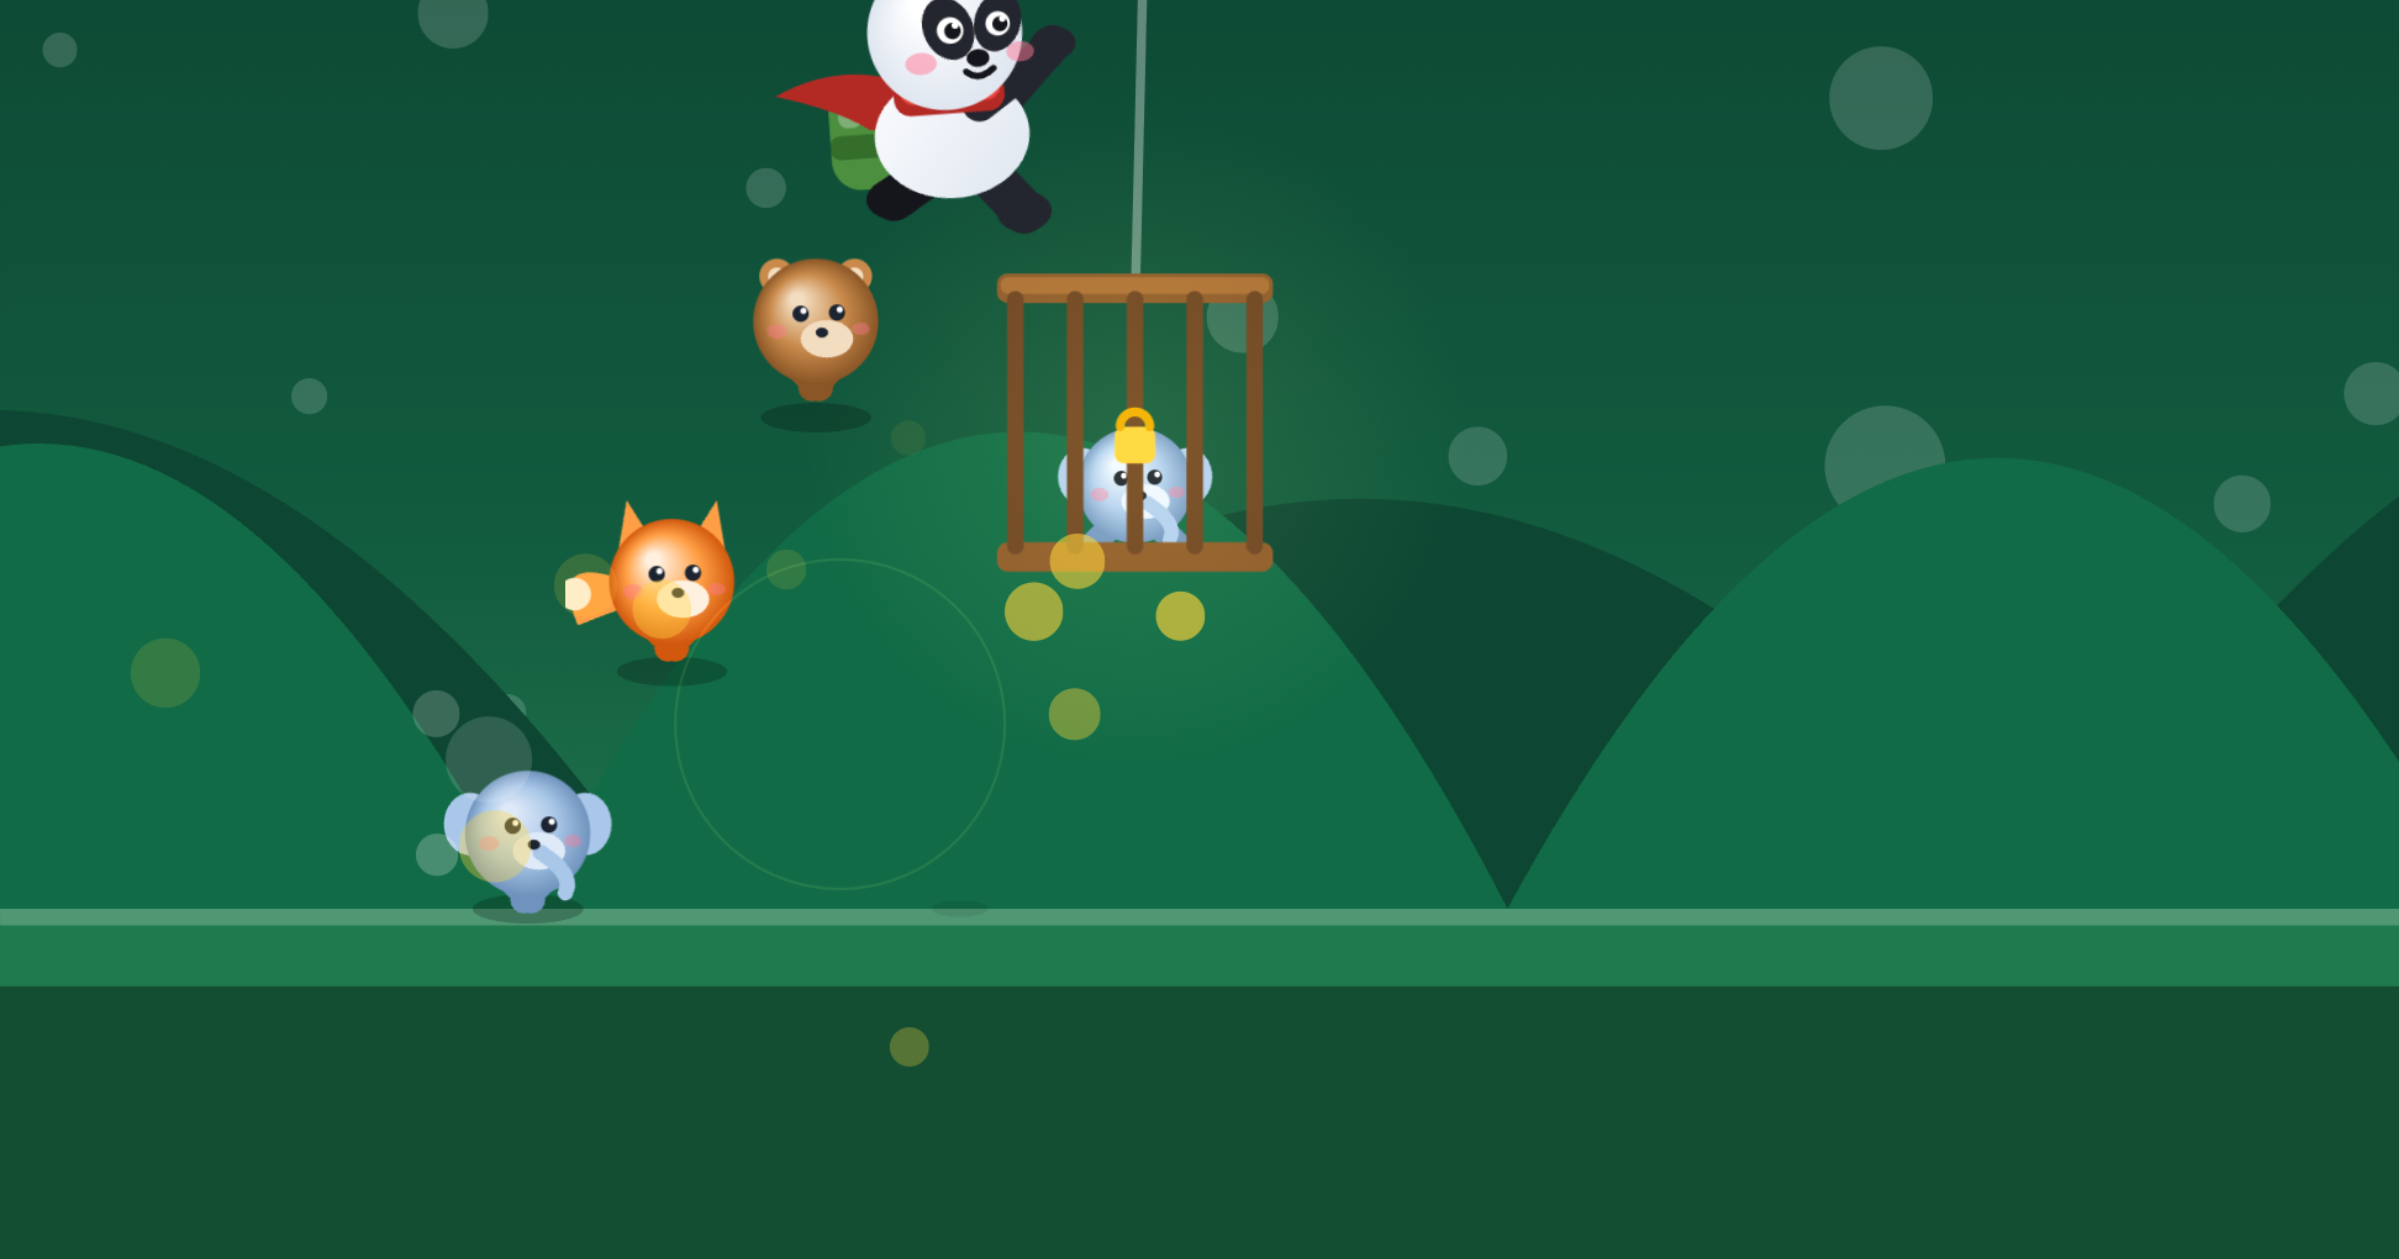
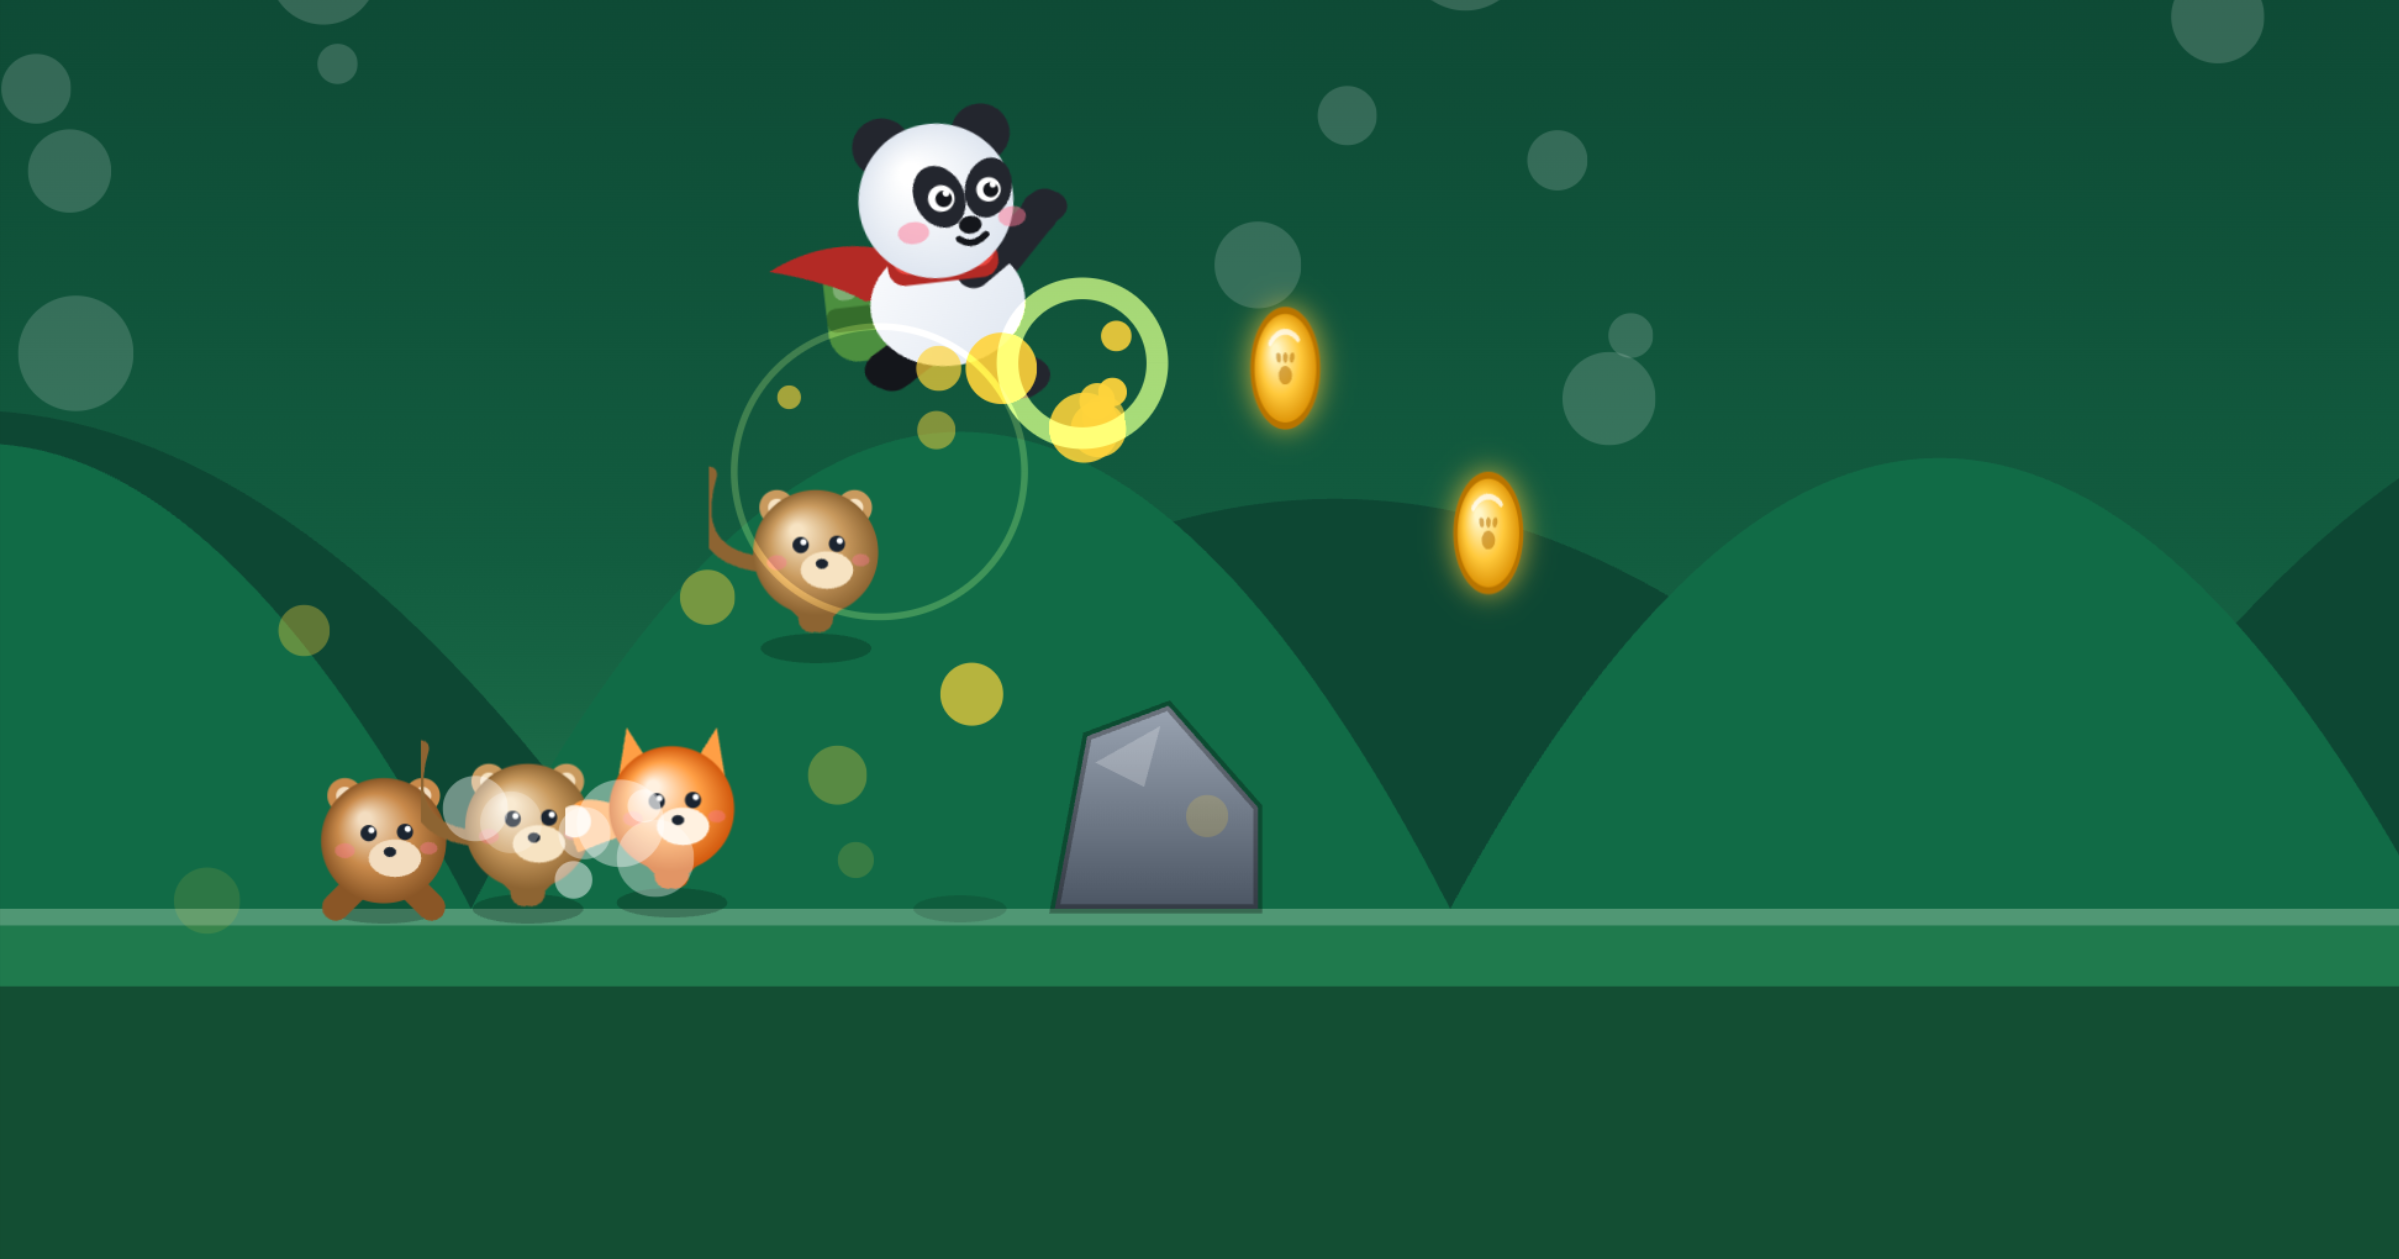
refactor: implement variable-height jump mechanics and improve pause/resume state management

diff --git a/panda-run/game.js b/panda-run/game.js
@@ -62,9 +62,20 @@
     const RUN_MID = 700;         // chạy tới đây thì được nửa quãng tăng tốc
 
     const GRAV = 52;             // trọng lực (u/giây²)
-    const JUMP_V = 15.2;         // vận tốc bật lên
-    const HOLD_T = 0.20;         // giữ tay thêm bấy nhiêu giây thì nhảy cao hơn
-    const HOLD_G = 0.34;         // lúc đang giữ thì trọng lực chỉ còn bấy nhiêu
+    /* Nhảy ba mức, chỉ khác nhau ở chỗ bé giữ tay bao lâu:
+     *
+     *   chạm rồi thả ngay  → nhảy ~1,2 u, vừa đủ qua hòn đá thấp
+     *   chạm bình thường   → nhảy ~2,7 u
+     *   chạm rồi giữ tay   → nhảy ~4,0 u, tới được bệ cao và hố rộng nhất
+     *
+     * Hai cơ chế ghép lại mới ra được ba mức đó. Giữ tay thì trọng lực nhẹ đi
+     * (bay lên lâu hơn); thả tay sớm thì CẮT bớt đà đang bay lên. Chỉ có vế
+     * giữ tay thôi là không đủ: cú chạm nhanh nhất vẫn bay gần hết tầm, vì đà
+     * bật ban đầu đã ném bé lên rồi. */
+    const JUMP_V = 14.0;         // vận tốc bật lên
+    const JUMP_CUT = 11.0;       // thả tay sớm thì đà bay lên chỉ còn bấy nhiêu
+    const HOLD_T = 0.26;         // giữ tay thêm bấy nhiêu giây thì nhảy cao hơn
+    const HOLD_G = 0.32;         // lúc đang giữ thì trọng lực chỉ còn bấy nhiêu
     const COYOTE = 0.10;         // vừa rời mép đất, trong ngần này giây vẫn nhảy được
     const BUFFER = 0.14;         // bấm sớm trước khi chạm đất bấy nhiêu vẫn ăn
 
@@ -502,6 +513,7 @@
         sliding: 0,          // còn bao lâu nữa hết trượt
         hurtUntil: -9,
         cheerAt: -9,         // mốc vừa cứu được bạn, để panda nhe răng cười
+        resuming: false,     // đang đếm ngược để chạy tiếp, chưa hẳn là đã dừng
         runCycle: 0,         // pha chạy, dùng để vẽ chân tay
 
         tail: [],            // các bạn đã cứu, phần tử là chỉ số màu trong ANIMALS
@@ -744,7 +756,15 @@
         puff(G.x, G.y, 7, '#ffffff');
     }
 
-    function releaseJump() { G.jumpHold = 0; }
+    /* Thả tay giữa chừng thì cắt bớt đà đang bay lên — bé thả càng sớm càng
+     * nhảy thấp. Chỉ cắt khi vẫn còn trong quãng được giữ (jumpHold > 0): giữ
+     * quá HOLD_T rồi mới thả nghĩa là bé đã "mua" trọn cú nhảy cao, cắt lúc đó
+     * là ăn cướp công. Cũng không cắt khi đang đứng trên đất, vì cú thả tay ấy
+     * có thể là của thao tác trượt chứ không phải của cú nhảy nào cả. */
+    function releaseJump() {
+        if (!G.onGround && G.jumpHold > 0 && G.vy < -JUMP_CUT) G.vy = -JUMP_CUT;
+        G.jumpHold = 0;
+    }
 
     function slide() {
         if (G.mode !== 'play' || G.rocketT > 0) return;
@@ -821,6 +841,9 @@
                 G.vy = 0;
                 G.onGround = true;
                 G.groundAt = sup;
+                /* Chạm đất là hết quãng giữ tay của cú nhảy vừa rồi; không xoá
+                 * thì cú thả tay sau đó lại đi cắt nhầm cú nhảy kế tiếp. */
+                G.jumpHold = 0;
             } else {
                 if (G.onGround) G.lastGround = G.time;
                 G.onGround = false;
@@ -2455,6 +2478,7 @@
     function showMenu() {
         G.mode = 'menu';
         stopCountdown();
+        G.resuming = false;
         hide(ui.hud);
         hide(ui.over);
         hide(ui.pause);
@@ -2478,6 +2502,7 @@
     function play() {
         sfx.wake();
         stopCountdown();
+        G.resuming = false;
         hide(ui.menu);
         hide(ui.over);
         hide(ui.pause);
@@ -2490,8 +2515,9 @@
      * Bé đang chạy dở mà mẹ gọi thì phải có chỗ dừng lại, không thì đoàn bạn
      * gom cả buổi đi tong vì một cuộc gọi. */
     function pause() {
-        if (G.mode !== 'play') return;
+        if (G.mode !== 'play' && !G.resuming) return;
         stopCountdown();
+        G.resuming = false;
         G.mode = 'paused';
         ui.pauseDist.textContent = G.metres;
         ui.pausePals.textContent = G.tail.length;
@@ -2503,6 +2529,9 @@
     function resume() {
         if (G.mode !== 'paused') return;
         hide(ui.pause);
+        /* Đang đếm ngược thì coi như đã chạy tiếp rồi: nút phải đọc là "Tạm
+         * dừng", và bấm vào nó phải dừng lại chứ không phải đếm lại từ đầu. */
+        G.resuming = true;
         paintPauseBtn();
         /* Đếm ngược ba nhịp rồi mới chạy tiếp: thả bé vào giữa đường ngay lúc
          * vừa bấm thì ngón tay còn chưa về chỗ đã đâm phải hòn đá đầu tiên. */
@@ -2510,7 +2539,7 @@
     }
 
     function togglePause() {
-        if (G.mode === 'play') pause();
+        if (G.mode === 'play' || G.resuming) pause();
         else if (G.mode === 'paused') resume();
     }
 
@@ -2532,6 +2561,10 @@
                 /* Chỉ cho chạy tiếp nếu trong lúc đếm bé không bấm sang chỗ
                  * khác — bấm Menu giữa chừng mà vẫn nhảy vào lượt cũ thì lạ. */
                 if (G.mode === 'paused') G.mode = 'play';
+                G.resuming = false;
+                /* Vẽ lại nút SAU khi mode đã đổi. Vẽ trước thì hàm vẽ vẫn đọc
+                 * thấy mode là 'paused' và nhãn kẹt ở "Chơi tiếp" mãi mãi. */
+                paintPauseBtn();
             }, 420);
             return;
         }
@@ -2545,7 +2578,9 @@
     }
 
     function paintPauseBtn() {
-        const on = G.mode === 'paused';
+        /* Chỉ đọc là "chơi tiếp" khi thật sự đang đứng im. Lúc đang đếm ngược
+         * thì game coi như đã chạy, nút phải quay về "tạm dừng". */
+        const on = G.mode === 'paused' && !G.resuming;
         ui.pauseIcon.className = 'fa-solid ' + (on ? 'fa-play' : 'fa-pause');
         ui.pauseText.textContent = on ? 'Resume' : 'Pause';
     }
